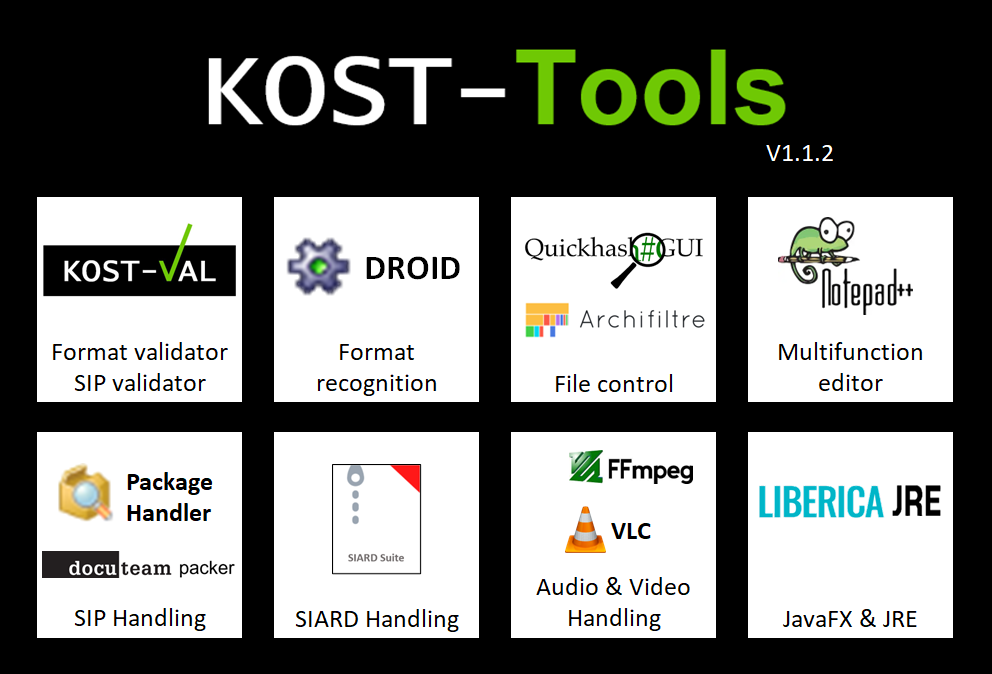
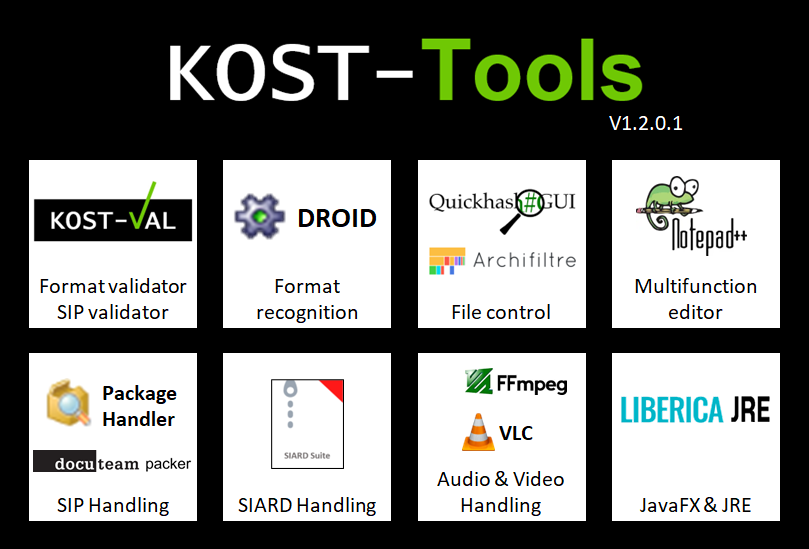
KOST-Tools v1.2.0.1 (Manual)
============================
KOST-Val v2.3.0.0:
- KOST-Val_FuntionalPrincipleFormatValidation.JPG
- KOST-Val_README.md

KOST-Tools_Overview.png

diff --git a/KOST-Val_README.md b/KOST-Val_README.md
@@ -15,6 +15,5 @@ KOST-Val uses unmodified components of other manufacturers by embedding them
 directly into the source code. Users of KOST-Val are requested to adhere to 
 these components ‘terms of licence.
 
-You can download KOST-Val under https://github.com/KOST-CECO/KOST-Val/releases 
-or http://kost-ceco.ch/cms/index.php?kost_val_de. 
-For installation-instructions check the manual (DE/FR/IT/EN).
+http://kost-ceco.ch/cms/index.php?kost_val_de. 
+
